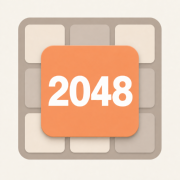
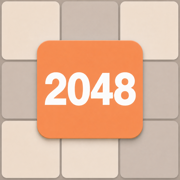
更换应用图标为新的 2048 图；sw 缓存版本升至 v2

diff --git a/src/sw.test.ts b/src/sw.test.ts
@@ -12,6 +12,9 @@ import { resolve } from 'node:path'
 
 const SW_SOURCE = readFileSync(resolve(process.cwd(), 'public/sw.js'), 'utf8')
 
+/** 从源码提取当前缓存版本，避免版本号升级后测试悄悄失效 */
+const CACHE_VERSION = /const CACHE_VERSION = '([^']+)'/.exec(SW_SOURCE)?.[1] ?? ''
+
 const SCOPE = 'https://example.com/2048/'
 
 /** 极简 Cache 假实现，按 URL 字符串存取。fetch 由外部注入，避免真的发网络请求 */
@@ -260,7 +263,7 @@ describe('sw.js — 激活阶段', () => {
 
     expect(env.deleted).toContain('react-2048-v0')
     // 当前版本不应被删
-    const current = [...env.caches.keys()].find((k) => k.endsWith('v1'))
+    const current = [...env.caches.keys()].find((k) => k.endsWith(CACHE_VERSION))
     expect(env.deleted).not.toContain(current)
   })
 

diff --git a/public/sw.js b/public/sw.js
@@ -10,7 +10,7 @@
  * 所以每次发布新版本需要同步改 CACHE_VERSION。
  */
 
-const CACHE_VERSION = 'v1'
+const CACHE_VERSION = 'v2'
 const CACHE_NAME = `react-2048-${CACHE_VERSION}`
 
 /** 预缓存清单。BASE 由构建时注入，兼容部署在子路径（如 GitHub Pages）的情况 */
